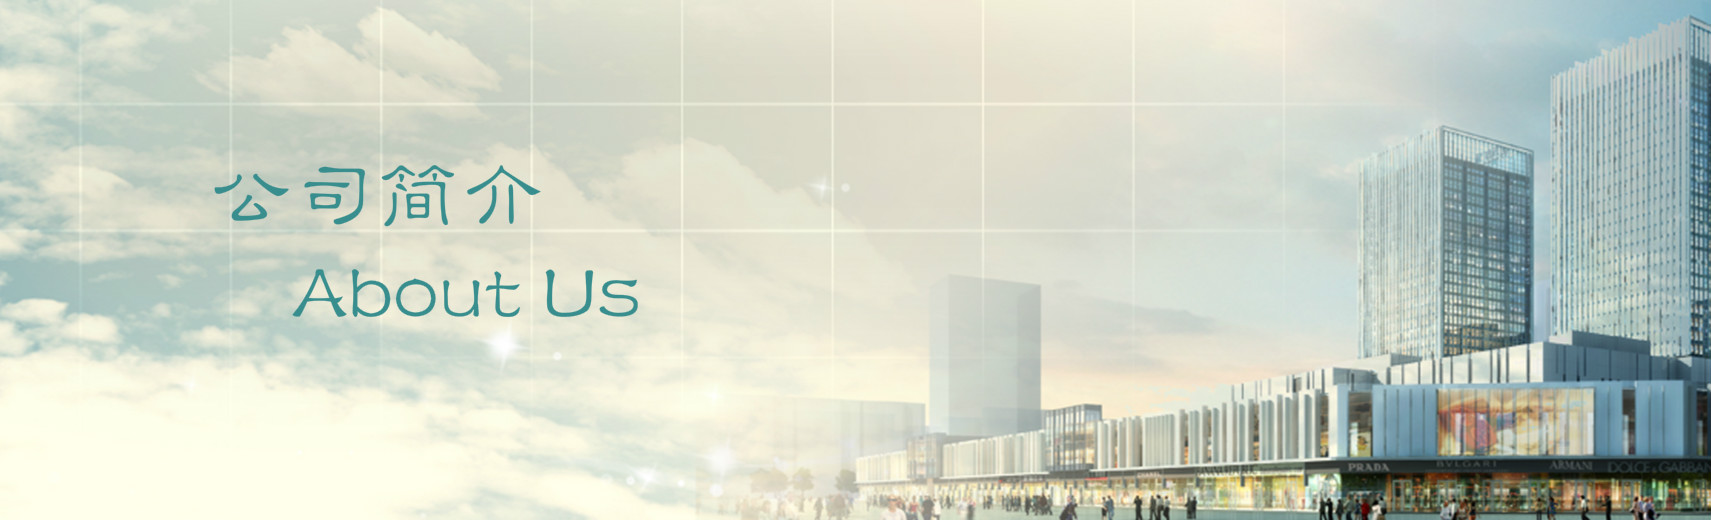
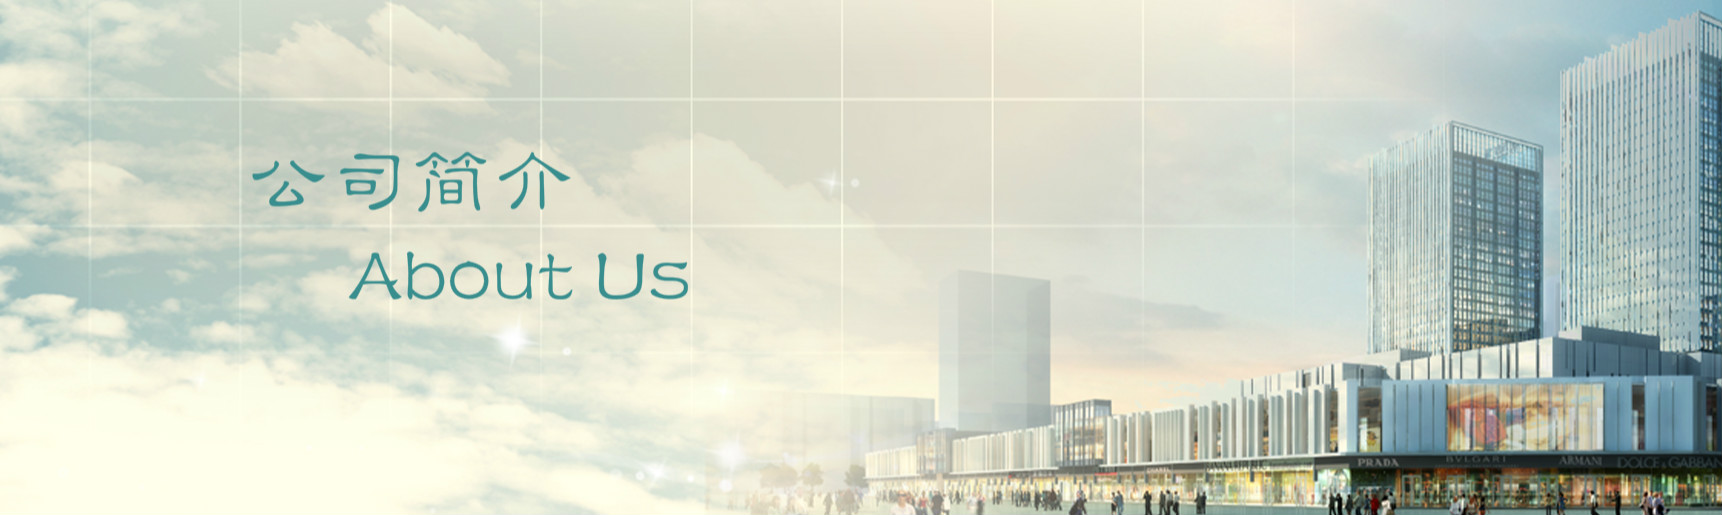
修复右边空白等小问题

diff --git a/index.html b/index.html
@@ -113,7 +113,7 @@
                 	<p style="display:inline;"><span>公司简介<br></span>
                     美国投资移民进入中国短短几年，除了投资额度低进入中国短短几年，除了投资额度低进入中国短短几年，除了投资额度低进入中国短短几年，除了投资额度低进入中国短短几年，除了投资额度单的特点也是吸引用户得一点三年来，新饶网站策划一直秉承以用户需求为核心，在专注长沙本地市场开拓的同时，为超过一百家中小企业提供网站策划服务，优质、用心的服务赢得了众多企业的信赖和好评，在长沙地区逐
                     渐树立起公司良好品牌。公司不仅仅提供专业的网站策划服务，同时还建立了完善的售后服务体系，为企业发展中遇到的问题和困难提供指导帮助。我们相信，通过我们的不断努力和追求，一定能够实现与中小企业的互利共赢！  美国投资移民进入中国短短几年，除了投资额度低进入中国短短几年，除了投资额度低进入中国短短几年，除了投资额度低进入中国短短几年，除了投资额度低进入中国短短几年，除了投资额度单的特点也是吸引用户得一点三年来，新饶网站策划一直秉承以用户需求为核心，在专注长沙本地市场开拓的同时，为超过一百家中小企业提供网站策划服务，优质、用心的服务赢得了众多企业的信赖和好评，在长沙地区逐
-                    渐树立起公司良好品牌。公司不仅<a href="">[查看详情]</a></p>
+                    渐树立起公司良好品牌。公司不仅<a href="gsjj.html">[查看详情]</a></p>
                 </div>
                 <!--<div class="topNew_ym_li">
                 	<a href="HZxiangqing.html"><li>● 美国EB-5投延期吗投资移民还会延期吗?<span>2016-02-20</span></li></a>
@@ -130,13 +130,13 @@
             	<div class="topNew_ym_pic"><img src="images/my1.jpeg"/></div>
                 <div class="topNew_ym_nr">
                 	<p><span>主营业务</span></p>
-                    <p>美国投资移民进入中国短短几年，除了投资额度低进入中国短短几年除了投资额度低进入中国短短几年，除了投资额度低进入中国短短几年，除了投资额度低进入中国短短几年，除了投资额度低进入中国短短几年，除了投资额度单的特点也是吸引...<a href="">[查看详情]</a></p>
+                    <p>美国投资移民进入中国短短几年，除了投资额度低进入中国短短几年除了投资额度低进入中国短短几年，除了投资额度低进入中国短短几年，除了投资额度低进入中国短短几年，除了投资额度低进入中国短短几年，除了投资额度单的特点也是吸引...<a href="list.html">[查看详情]</a></p>
                 </div>
                 <div class="topNew_ym_li">
-                	<a href="HZxiangqing.html"><li>● 生产销售防火保温材料.<span>查看详情</span></li></a>
-                	<a href="HZxiangqing.html"><li>● 承接室内外保温,防水,装修工程.<span>查看详情</span></li></a>
-                    <a href="HZxiangqing.html"><li>● 专业治理墙体透寒,发霉保温,渗水等工程.<span>查看详情</span></li></a>
-                    <a href="HZxiangqing.html"><li>● 承接地下室拓展与维修装修业务.<span>查看详情</span></li></a>
+                	<a href="list.html"><li>● 生产销售防火保温材料.<span>查看详情</span></li></a>
+                	<a href="list.html"><li>● 承接室内外保温,防水,装修工程.<span>查看详情</span></li></a>
+                    <a href="list.html"><li>● 专业治理墙体透寒,发霉保温,渗水等工程.<span>查看详情</span></li></a>
+                    <a href="list.html"><li>● 承接地下室拓展与维修装修业务.<span>查看详情</span></li></a>
                 </div>
              </div>
 		</dd>

diff --git a/css/reset.css b/css/reset.css
@@ -1,6 +1,7 @@
 body,div,dl,dt,dd,ul,ol,li,h1,h2,h3,h4,h5,h6,pre,code,form,fieldset,legend,input,textarea,p,blockquote,th,td {
 	margin: 0;
-	padding: 0
+	padding: 0;
+	overflow-x:hidden;
 }
 
 table {
@@ -63,14 +64,14 @@ legend {
 
 /*环中移民，热报*/
 /* 移民头条/移民热点 */
-.topNew{ width:100%; height:440px; background:#fff; position:relative;left:50px;}
+.topNew{ width:100%; height:440px; background:#fff; position:relative;left:20px;}
 .topNew_nr{width:100%; height:410px; margin:0 auto;}
 .topNew_kong{ width:100%; height:35px}
 /**/
 .topNew_ym{width:100%;position:absolute;height:350px; float:left}
 .topNew_ym_pic{width:189px;height:115px; float:left; margin:0px 10px 10px 0px;}
 .topNew_ym_pic img{width:189px;height:115px;}
-.topNew_ym_nr{height:115px;  font-size:13px; line-height:24px; color:#666}
+.topNew_ym_nr{height:350px;  font-size:13px; line-height:24px; color:#666;display:inline;}
 .topNew_ym_nr span{ font-size:14px; font-weight:bold; line-height:30px}
 .topNew_ym_nr a{color:#d60000}
 .topNew_ym_li{width:100%;height:150px; float:left; margin-top:20px; line-height:28px; font-size:13px; font-weight:100}
@@ -81,7 +82,7 @@ legend {
 .slideBox dt span{color:#333;cursor:pointer;float:left;font-size:20px;height:42px;line-height:42px;text-align:center;width:50%; border-bottom:3px solid #B0B0B0;} 
 .slideBox dt .on{font-weight:bold;border-bottom:3px solid #0280d7;color:#0280d7}
 .slideBox a:hover{color:#0280d7;}
-.slideBox dd{position:relative;width:100%;height:350px;clear:both;display:none; padding-top:20px}
+.slideBox dd{position:relative;width:100%;height:285px;clear:both;display:none; padding-top:20px}
 
 .slideBox1{width:60%; height:350px;}
 .slideBox1 dt{ width:1000px; margin-left:260px}

diff --git a/css/css_whir.css b/css/css_whir.css
@@ -1,5 +1,5 @@
 html {height: 100%}
-.site-casa {color: #333;height: 100%}
+.site-casa {color: #333;height: 100%;}
 .site-casa a {text-decoration: none}
 .site-casa h1 {font-size: 70px;font-family: 'fz-L',"Microsoft YaHei","Hiragino Sans GB",sans-serif;margin: 20px 0}
 .site-casa h2 {font-size: 60px;line-height: 90px}
